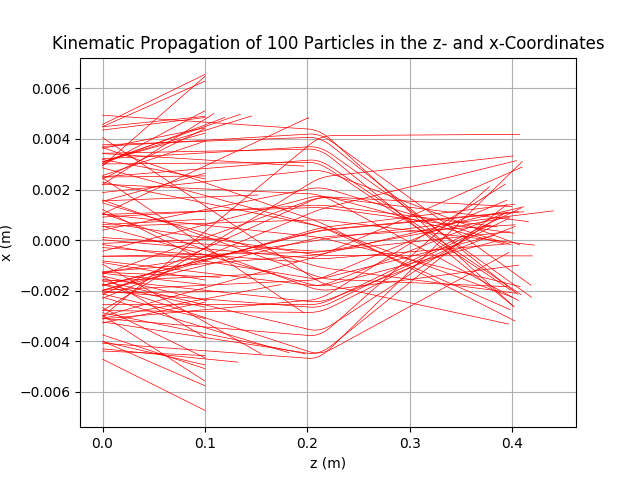
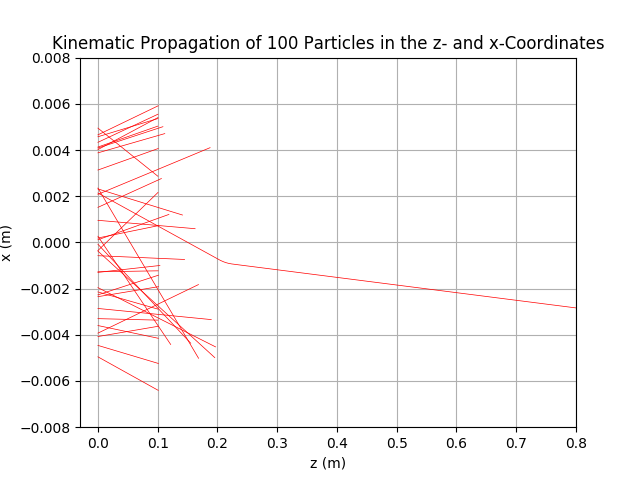
mot region calculation completed; pruning/prettyfying wip

diff --git a/magnetic_lens_monte_carlo/kinematic_propagation.py b/magnetic_lens_monte_carlo/kinematic_propagation.py
@@ -23,19 +23,17 @@ for index in range(0, int(n) * 3, 3):
 
 # Evolve system through time
 for time in np.linspace(0, tFinal, num=steps, endpoint=False):
-    timestep = tFinal / steps
+
     for index in range(0, int(n) * 3, 3):
-        if p[index + 2] >= lCellTo4k and\
-        ((p[index] ** 2 + p[index + 1] ** 2) ** (1/2)) > 0.005:
-            v[index:index + 3] = [0, 0, 0]
-            a[index:index + 3] = [0, 0, 0]
-        elif v[index + 2] < 0:
+
+        if lCellTo4k <= p[index + 2] <= lCellTo4k + l4kToAperture and\
+            ((p[index] ** 2 + p[index + 1] ** 2) ** (1/2)) > 0.005:
             v[index:index + 3] = [0, 0, 0]
             a[index:index + 3] = [0, 0, 0]
 
     for index in range(0, int(n) * 3, 3):
-        if -(R / 1e3) / 2 <= p[index] <= (R / 1e3) / 2\
-            and -(R / 1e3) / 2 <= p[index + 1] <= (R / 1e3) / 2\
+        if -(R / 1e3) / 2 <= p[index] <= (R / 1e3) / 2 \
+            and -(R / 1e3) / 2 <= p[index + 1] <= (R / 1e3) / 2 \
             and lCellTo4k + l4kToAperture <= p[index + 2] <= lCellTo4k + l4kToAperture + R / 1e3:
 
             if not path.contains_point((p[index], p[index + 1])):
@@ -59,24 +57,36 @@ for time in np.linspace(0, tFinal, num=steps, endpoint=False):
             print('z position: {}'.format(p[index + 2]))
             print('z calculation: {}\n'.format(zCoord))
 
-            # todo: include mass factor
-            a[index:index + 3] = gradBMatrix[int(xCoord), int(yCoord), int(zCoord)] / mass * 1e5
+            # todo: optimize additional force scaling factor
+            a[index:index + 3] = gradBMatrix[int(xCoord), int(yCoord), int(zCoord)] / mass * 1e6
+
         else:
             a[index:index + 3] = [0, 0, 0]
 
+    timestep = tFinal / steps
     v += a * timestep
     p += v * timestep
 
     for index in range(0, int(n) * 3, 3):
-        if -0.0125 <= p[index] <= 0.0125 and -0.0125 <= p[index + 1] <= 0.0125 and \
-            (0.57 + lCellTo4k - 0.0125) <= p[index + 2] <= (0.57 + lCellTo4k + 0.0125):
-            success += 1
+        # todo: include accurate MOT region measurements
+        if -0.0025 <= p[index] <= 0.0025 and -0.0025 <= p[index + 1] <= 0.0025 and \
+            0.5500 <= p[index + 2] <= 0.5525 and \
+            int(index / 3) not in successfulParticles:
+            successfulParticles.append(int(index / 3))
+            successes += 1
         plotZ[int(index / 3)].append(p[index + 2])
         plotX[int(index / 3)].append(p[index])
 
+for index in range(0, int(n) * 3, 3):
+    if p[index + 2] >= lCellTo4k and\
+        ((p[index] ** 2 + p[index + 1] ** 2) ** (1/2)) > 0.006:
+        plotZ[int(index / 3)] = [0.0, 0.0]
+        plotX[int(index / 3)] = [0.0, 0.0]
+
+print(successfulParticles)
 print('Ending positions: {}'.format(p))
-print('Total particles through MOT region: {}'.format(success))
-print('Success rate: {}\n'.format(success / n))
+print('Total particles through MOT region: {}, {}'.format(successes, len(set(successfulParticles))))
+print('Success rate: {}\n'.format(successes / n))
 print('Done.\n')
 
 print('Plotting trajectories...')
@@ -87,6 +97,7 @@ for index in range(0, int(n) * 3, 3):
 plt.xlabel('z (m)')
 plt.ylabel('x (m)')
 plt.grid(True)
+plt.axis([-0.03, 0.8, -0.008, 0.008])
 
 plt.title('Kinematic Propagation of {} Particles in the z- and x-Coordinates'.format(int(n)))
 Path('/Users/andrewwinnicki/desktop/Andrew/2019-2020/Doyle Lab/Modeling Magnetic Lens/magnetic_lens_monte_carlo/kinematic_propagation_plots_{}'\

diff --git a/magnetic_lens_monte_carlo/init.py b/magnetic_lens_monte_carlo/init.py
@@ -12,13 +12,18 @@ for index in range(0, int(n) * 3, 3):
         0.0])
     v = np.append(v, [np.random.normal(loc=0.0, scale=0.5), \
         np.random.normal(loc=0.0, scale=0.5), \
-        np.random.normal(loc=40.0, scale=1.0)])
+        np.random.normal(loc=100.0, scale=10.0)])
     a = np.append(a, [0.0, 0.0, 0.0])
 
     while p[index] <= -0.005 or p[index] >= 0.005 or \
         p[index + 1] <= -0.005 or p[index + 1] >= 0.005:
         p[index:index + 2] = [np.random.normal(loc=0.0, scale=0.005), \
         np.random.normal(loc=0.0, scale=0.005)]
+
+    while v[index + 2] < 0:
+        v[index:index + 3] = [np.random.normal(loc=0.0, scale=0.5), \
+        np.random.normal(loc=0.0, scale=0.5), \
+        np.random.normal(loc=40.0, scale=10.0)]
 print('Done.\n')
 
 print('====================================== Initial Conditions ======================================')

diff --git a/magnetic_lens_monte_carlo/dependencies.py b/magnetic_lens_monte_carlo/dependencies.py
@@ -17,7 +17,7 @@ from scipy.stats import maxwell
 print('Done.\n')
 
 # Number of particles
-n = 5e2
+n = 1e3
 
 # Mesh spacing, must be same as variable m in halbach.nb Mathematica code
 m = 18
@@ -26,7 +26,6 @@ m = 18
 R = 25.4
 
 # Change in angle of each array segment, as in halbach.nb code, in radians
-dPhi = np.pi / 6
 segs = 12
 
 # Time and timestep, units of s
@@ -51,7 +50,8 @@ v = np.array([])
 a = np.array([])
 
 # Propagation
-tFinal = 0.02
-steps = 3000
-success = 0
+tFinal = 0.01
+steps = 1000
+successfulParticles = []
+successes = 0
 
